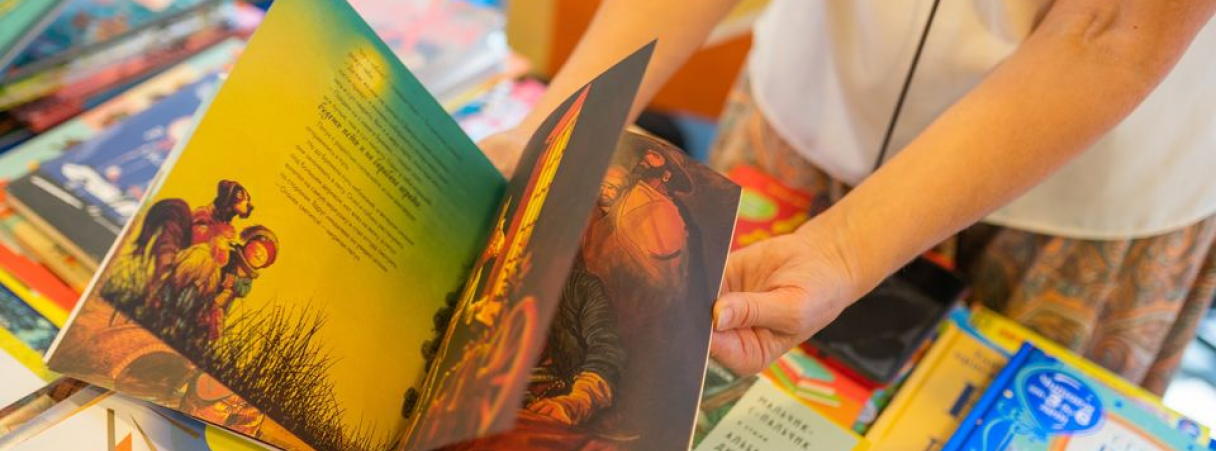
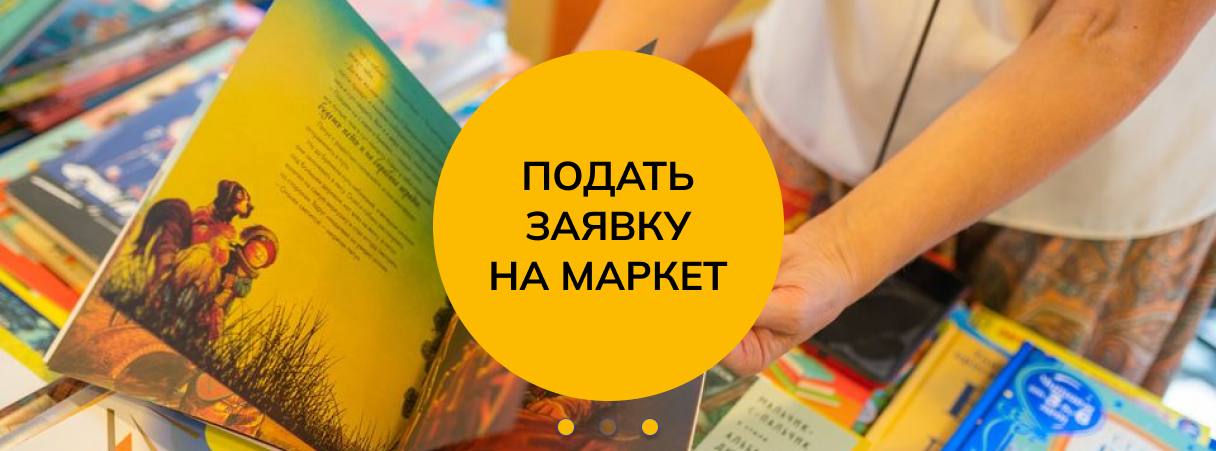
added links

Changed region(s): [[0.3438, 0.0931, 0.6562, 0.9002], [0.4375, 0.9313, 0.5625, 0.9623]]

diff --git a/src/components/Festivals/Hanukkah2024/Announcement/Announcement.js b/src/components/Festivals/Hanukkah2024/Announcement/Announcement.js
@@ -30,14 +30,19 @@ function Announcement() {
                 <p className="announcement_text announcement_text_bold announcement_text_first_container">Мы собрали всё, что вы любите – разговоры о литературе, детские спектакли, авторские экскурсии для взрослых и детей по экспозиции музея, много музыки, света, хороших книжек для детей и взрослых, а также идей для подарков на маркете!</p>
 
                 <ul className="announcement_text announcement_text_margin">
-                    <li><span className="announcement_text_bold">Лекция о литературе</span> от Дмитрия Львовича Быкова</li>
-                    <li><span className="announcement_text_bold">Встреча с писательницей</span> Мартой Кетро</li>
-                    <li><span className="announcement_text_bold">Автограф-сессия иллюстратора</span> @Евгения Антоненкова</li>
-                    <li><span className="announcement_text_bold">Детские Ханукальные и новогодние спектакли</span> от театров ДОМ чёрной СОВЫ и Zebra_theater</li>
+                    <li><span className="announcement_text_bold">Лекция о литературе</span> от <a href='https://t.me/dmibykov' target="_blank" className="announcement_text_link">Дмитрия Быкова</a></li>
+                    <li><span className="announcement_text_bold">Разговор о свободе слова с правозащитником</span> <a href='https://ru.wikipedia.org/wiki/Даниэль,_Александр_Юльевич' target="_blank" className="announcement_text_link">Александром Даниэлем Даниэль</a></li>
+                    <li><span className="announcement_text_bold">Встреча с писательницей</span><a href='https://www.facebook.com/marta.c.ketro' target="_blank" className="announcement_text_link"> Мартой Кетро</a> и <span className="announcement_text_bold">художником</span> <a href='https://www.facebook.com/p/Andrei-Popov-100001768221323/' target="_blank" className="announcement_text_link">Андреем Поповым</a></li>
+                    <li><span className="announcement_text_bold">Автограф-сессия иллюстратора</span> <a href='https://www.eantonenkov.com/' target="_blank" className="announcement_text_link">Евгения Антоненкова</a></li>
+                    <li><span className="announcement_text_bold">Детские Ханукальные и новогодние спектакли</span> от театров <a href='https://www.blackowlhouse.com/ru/main' target="_blank" className="announcement_text_link">ДОМ чёрной СОВЫ</a> и <a href='https://www.zebratheater.com' target="_blank" className="announcement_text_link">Zebra_theater</a>, молодежной театральной студии проекта<a href='https://www.dikieprogulki.org/' target="_blank" className="announcement_text_link"> The Walks</a></li>
                     <li><span className="announcement_text_bold">Авторская анимация</span>, специально подобранная для нас куратором Большого фестиваля мультфильмов Диной Годер</li>
-                    <li className="announcement_text_bold">Концерт группы Gefilte Drive</li>
-                    <li><span className="announcement_text_bold">Хакунальный стенд-ап</span> от раввина Motl Gordon (с зажжением свечи и поеданием пончиков)</li>
-                    <li><span className="announcement_text_bold">Специальный гость маркета</span> — представители фестиваля Пражская Книжная Башня с бестселлерами на русском языке, опубликованными новыми европейскими издательствами, так называемый современный “Тамиздат”. Это нельзя пропустить!</li>
+                    <li className="announcement_text_bold">Концерт группы <a href='https://www.youtube.com/@GefilteDrive' target="_blank" className="announcement_text_link">Gefilte Drive</a></li>
+                    <li><span className="announcement_text_bold">Хакунальный стенд-ап</span> от раввина <a href="https://www.instagram.com/motlgordon" target="_blank" className="announcement_text_link">Motl Gordon</a> (с зажжением свечи и поеданием пончиков)</li>
+                    <li><span className="announcement_text_bold">Специальный гость маркета</span> — представители фестиваля <a href='https://praguebooktower.cz/' target="_blank" className="announcement_text_link">Пражская Книжная Башня</a> с бестселлерами на русском языке, опубликованными новыми европейскими издательствами, так называемый современный “Тамиздат”. Это нельзя пропустить!</li>
+                    <li><span className="announcement_text_bold">Игры и практикумы</span> от Анны Никулишевой и Евгения Заслоцкого</li>
+                    <li><span className="announcement_text_bold">Экскурсии по АНУ</span> - Музей еврейского народа для детей и взрослых с Александрой Андреевой, Зеевом Волком и Зоей Брук</li>
+                    <li><span className="announcement_text_bold">Благотворительная лотерея</span> в пользу семей, перемещенных с Севера и Юга Израиля</li>
+                    <li>A один из наших спонсоров компания <a href='https://www.redmax.tv' target="_blank" className="announcement_text_link">Redmax TV</a> даже <span className="announcement_text_bold">разыграет телевизор!</span> Розыгрыш лотереи проведет Лика Длугач</li>
                 </ul>
             
                 <p className="announcement_text announcement_text_margin">🎈 И, конечно же, <span className="announcement_text_bold">детские активности, благотворительная лотерея, атмосфера волшебства, света и любимых зимних праздников!</span></p>

diff --git a/src/components/Main/Slider/Slider.js b/src/components/Main/Slider/Slider.js
@@ -7,12 +7,20 @@ import page3 from '../../../images/slider/offer.png'
 import './Slider.css'
 
 function Slider() {
-
+/*
     const images = [
         { id: 0, src: page0, link: '/hanukkah_2024', text: NaN, trigger: true },
         { id: 1, src: page1, link: '/story-time', text: NaN, trigger: false },
         { id: 2, src: page2, link: 'https://forms.gle/USjZPq4y9WSDvLBy6', text: "ПОДАТЬ ЗАЯВКУ НА МАРКЕТ", trigger: false },
         { id: 3, src: page3, link: 'https://forms.gle/N4mSMeM2ZK5Fdw7f9', text: "ПРЕДЛОЖИТЬ СВОЙ МК ИЛИ СПЕКТАКЛЬ", trigger: false },
+        ///////{ id: 4, src: page1, link: '/story-time', subtext: 'СЕМЕЙНАЯ ОНЛАЙН ЛАБОРАТОРИЯ',lastcall: 'OPEN CALL до 11.11.24',text: "ВРЕМЯ ИСТОРИЙ"},
+    ];*/
+
+    const images = [
+        { id: 0, src: page0, link: '/hanukkah_2024', text: NaN, trigger: false },
+        { id: 1, src: page1, link: '/story-time', text: NaN, trigger: false },
+        { id: 2, src: page2, link: 'https://forms.gle/USjZPq4y9WSDvLBy6', text: NaN, trigger: false },
+        { id: 3, src: page3, link: 'https://forms.gle/N4mSMeM2ZK5Fdw7f9', text: NaN, trigger: false },
         ///////{ id: 4, src: page1, link: '/story-time', subtext: 'СЕМЕЙНАЯ ОНЛАЙН ЛАБОРАТОРИЯ',lastcall: 'OPEN CALL до 11.11.24',text: "ВРЕМЯ ИСТОРИЙ"},
     ];
 
@@ -73,19 +81,6 @@ const handleTouchEnd = () => {
                         <div>
                             <img src={image.src} alt={`Slide ${image.id + 1}`} />
                         </div>
-                        {image.text?
-                            <div className='slide__text-container'>
-                                <p className='slide__text-subtitle'>{image.subtext}</p>
-                                <p className='slide__text'>{image.text}</p>
-                                <p className='slide__text-lastcall'>{image.lastcall}</p>
-                            </div>
-                            :
-                            (image.trigger?
-                                <></>
-                                :
-                                <div className={'slide__link-to-event-container'}></div>
-                            )
-                        }
                     </a>
 
                 ))}

diff --git a/src/components/Festivals/Hanukkah2024/Announcement/Announcement.css b/src/components/Festivals/Hanukkah2024/Announcement/Announcement.css
@@ -39,6 +39,15 @@
     display: flex;
 }
 
+.announcement_text_link {
+    text-decoration: none;
+    color: black;
+    border-bottom: 1px solid black;
+    cursor: pointer; 
+    /*color: #374BA5;
+    border-bottom: 2px solid #ff6347;*/
+}
+
 .announcement_title_container {
     display: flex;
     flex-direction: column;
